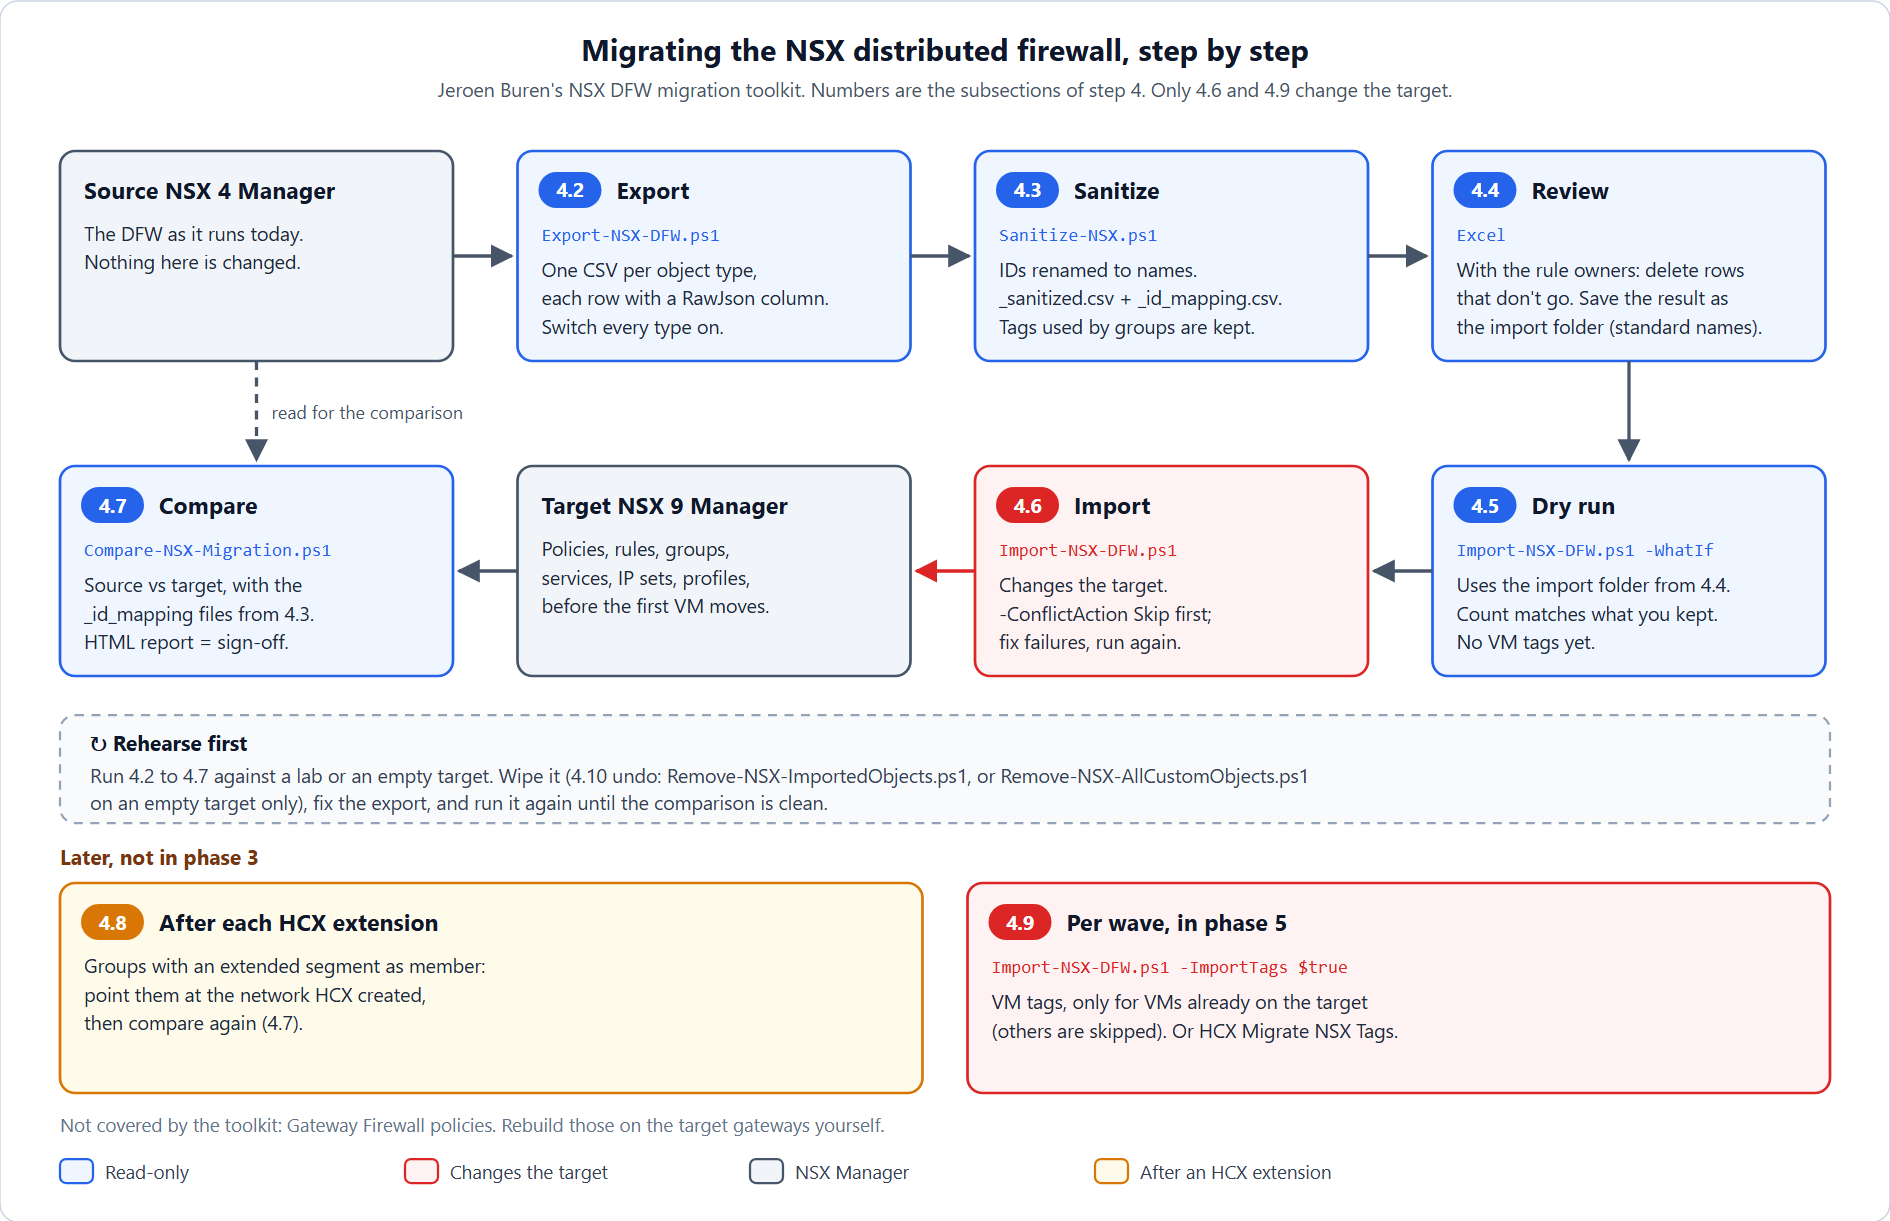
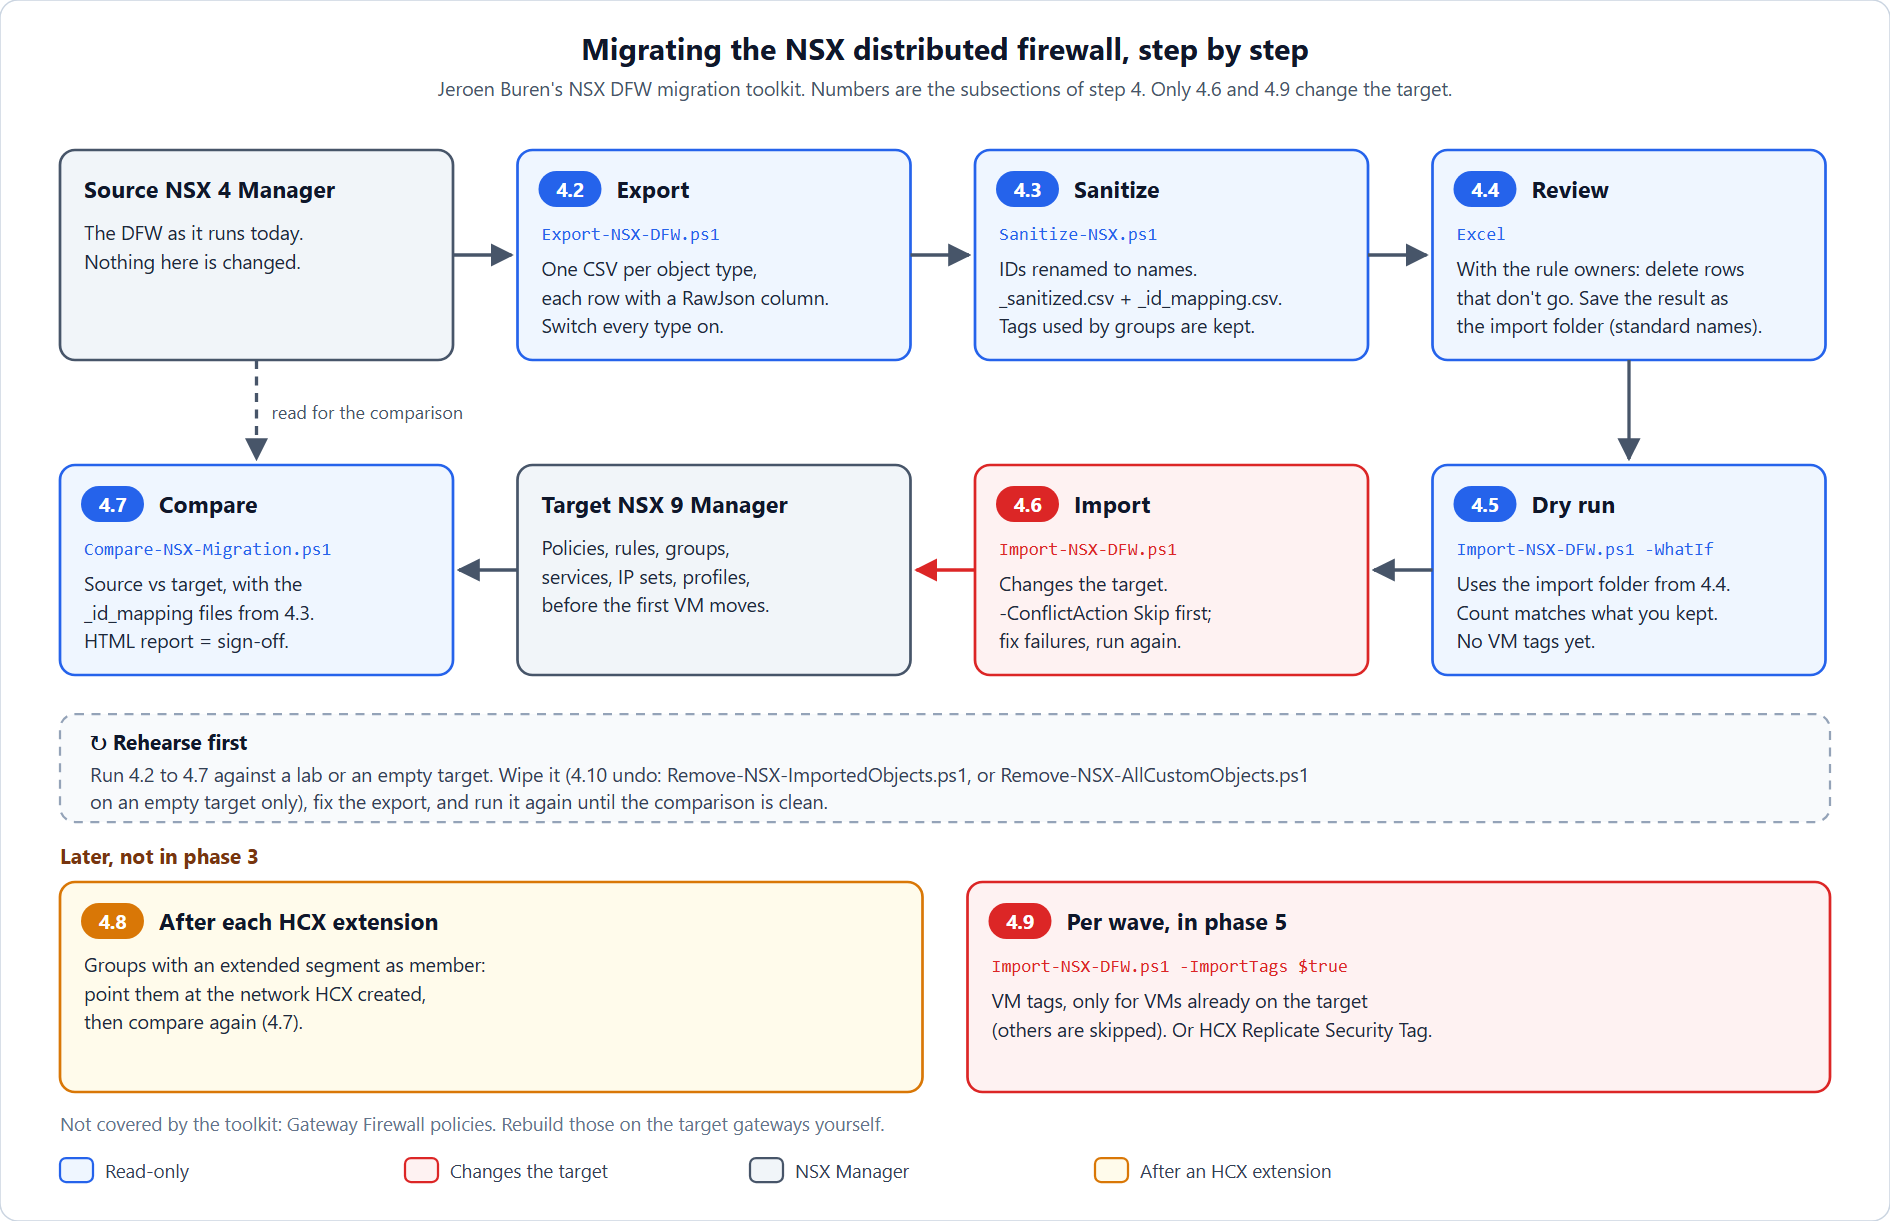
docs/29, docs/31: HCX option is Replicate Security Tag (#147)
The HCX user guide names the option that carries NSX tags along with a
VM "Replicate Security Tag" (quoted in docs/33); docs/29, docs/31 and the
dfw and routes diagrams said "Migrate NSX Tags". PNGs re-rendered.

Closes #147

diff --git a/docs/31-carry-over-networks-and-firewall.md b/docs/31-carry-over-networks-and-firewall.md
@@ -44,7 +44,7 @@ blogs, and the toolkits' own documentation and code, checked on
 | NSX segment (VLAN or overlay) | Recreate | NSX segment | [nsx-segment-migration](https://github.com/pauldiee/nsx-segment-migration) |
 | Any network whose VMs keep their IP addresses through HCX | Extend with HCX Network Extension; HCX creates the target network | Extended network | HCX, see [Networks that HCX extends](#networks-that-hcx-extends) |
 | NSX DFW: IP sets, services, groups, context profiles, policies and rules | Export, sanitize, import | NSX DFW | [NSX DFW migration toolkit](https://github.com/jeroenburen/Repository/tree/main/scripts/networking/nsx-migration-toolkit) (Jeroen Buren) |
-| NSX tags on VMs | Per wave, after the VM arrives | NSX tags | Same toolkit, or HCX *Migrate NSX Tags* (phase 5) |
+| NSX tags on VMs | Per wave, after the VM arrives | NSX tags | Same toolkit, or HCX *Replicate Security Tag* (phase 5) |
 | Services on NSX gateways: NAT, load balancer, DHCP, DNS forwarder, VPN, gateway firewall | List per subnet, rebuild on the target gateway, switch over in the subnet's cutover window | Target gateway, or Avi for load balancing | By hand, see [step 5](#step-5-services-on-the-nsx-gateways) |
 
 ---
@@ -495,7 +495,7 @@ membership. So:
 - **Plan time for it** in the migration plan, separate from the network
   work in steps 2 and 3.
 
-![Migrating the NSX distributed firewall step by step with Jeroen Buren's toolkit. Read-only: from the source NSX 4 Manager, 4.2 export to one CSV per object type, 4.3 sanitize to renamed IDs with _sanitized and _id_mapping files while keeping tags that groups use, 4.4 review in Excel with the rule owners and check service groups by hand, 4.5 dry run with WhatIf. Changes the target: 4.6 import into the target NSX 9 Manager, conflict action Skip first. Read-only: 4.7 compare source and target with the mapping files, HTML report as sign-off. Rehearse 4.2 to 4.7 against a lab or empty target and wipe it with 4.10 until the comparison is clean. Later: 4.8 after each HCX extension, re-point groups with an extended segment as member; 4.9 per wave in phase 5, import the VM tags or use HCX Migrate NSX Tags. Gateway Firewall is not covered.](images/networks-firewall/dfw.png)
+![Migrating the NSX distributed firewall step by step with Jeroen Buren's toolkit. Read-only: from the source NSX 4 Manager, 4.2 export to one CSV per object type, 4.3 sanitize to renamed IDs with _sanitized and _id_mapping files while keeping tags that groups use, 4.4 review in Excel with the rule owners and check service groups by hand, 4.5 dry run with WhatIf. Changes the target: 4.6 import into the target NSX 9 Manager, conflict action Skip first. Read-only: 4.7 compare source and target with the mapping files, HTML report as sign-off. Rehearse 4.2 to 4.7 against a lab or empty target and wipe it with 4.10 until the comparison is clean. Later: 4.8 after each HCX extension, re-point groups with an extended segment as member; 4.9 per wave in phase 5, import the VM tags or use HCX Replicate Security Tag. Gateway Firewall is not covered.](images/networks-firewall/dfw.png)
 
 The walkthrough below goes through it in nine steps:
 
@@ -772,7 +772,7 @@ So this is not phase 3 work: after each wave in phase 5,
 
    (with `-WhatIf` first), and pick `NSX_VMTags.csv`;
 2. check the warnings: VMs of later waves are skipped, which is expected;
-3. or use HCX's **Migrate NSX Tags** option on the Mobility Group instead.
+3. or use HCX's **Replicate Security Tag** option on the Mobility Group instead.
 
 **Check.** Every VM of the wave carries its NSX tags on the target and is
 a member of the groups it was in on the source.

diff --git a/docs/29-side-by-side-migration.md b/docs/29-side-by-side-migration.md
@@ -428,7 +428,7 @@ Step by step: [Migrating with HCX](33-migrating-with-hcx.md) or
     UUID) exists in the destination NSX fabric inventory. If it doesn't,
     the VM is skipped with a warning."*
     ([part 1](https://configmgr.nl/powershell/migrating-nsx-distributed-firewall-policies-the-right-way-a-powershell-toolkit/)).
-    Or use HCX's **Migrate NSX Tags** option on the Mobility Group.
+    Or use HCX's **Replicate Security Tag** option on the Mobility Group.
   - An application that runs on both sides for a while is protected by
     two DFWs, and a tag-based group only sees the VMs in its own NSX.
     Add the other side's IP addresses to its groups for as long as it's

diff --git a/CHANGELOG.md b/CHANGELOG.md
@@ -1,5 +1,13 @@
 # Changelog
 
+## v2.9.4 – 2026-11-18
+- `docs/29`, `docs/31` (#147, Paul): the HCX option that carries NSX tags
+  along with a VM is **Replicate Security Tag**, as the HCX user guide
+  names it (Additional Migration Settings, quoted in `docs/33`), not
+  "Migrate NSX Tags". Fixed in the docs/29 phase 5 list, the docs/31
+  "What goes where" table and 4.9, and the `dfw` and `routes` diagrams;
+  PNGs re-rendered.
+
 ## v2.9.3 – 2026-11-16
 - `docs/29`, `docs/30`, `docs/32` (#144, Paul): VITagManager replaces the
   tags and custom attributes toolkit "in development". `docs/30` steps 2
